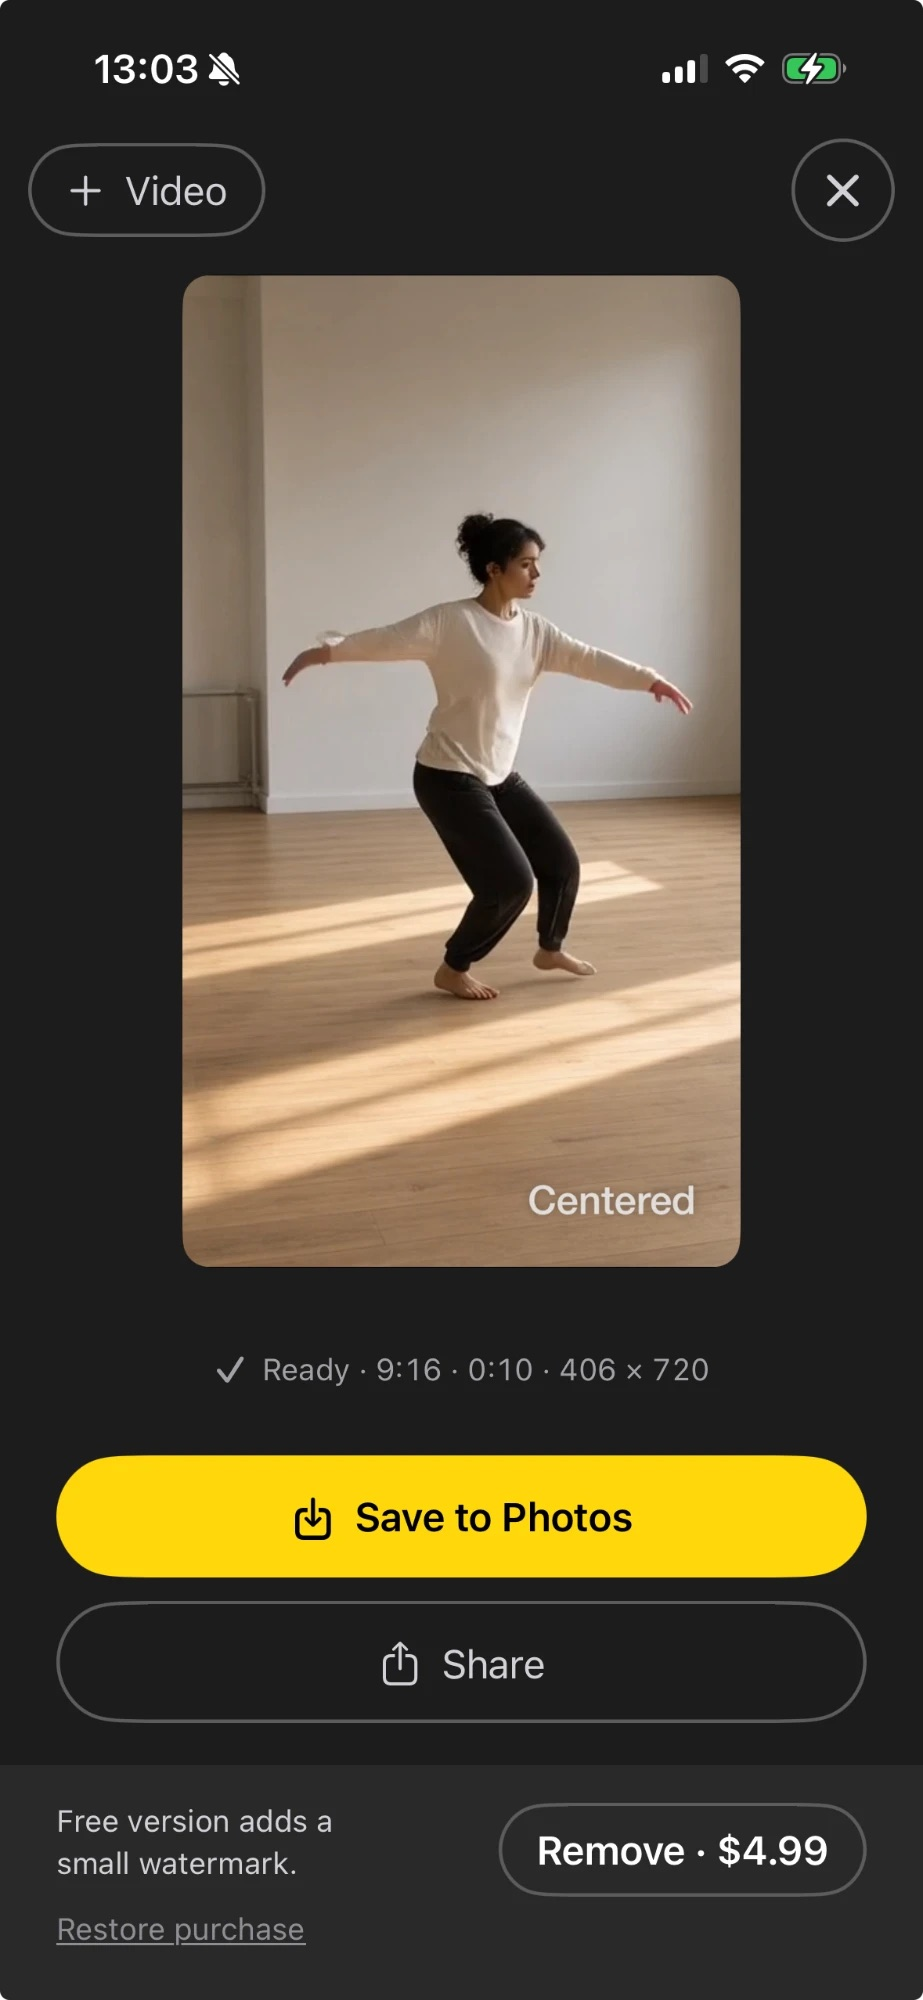
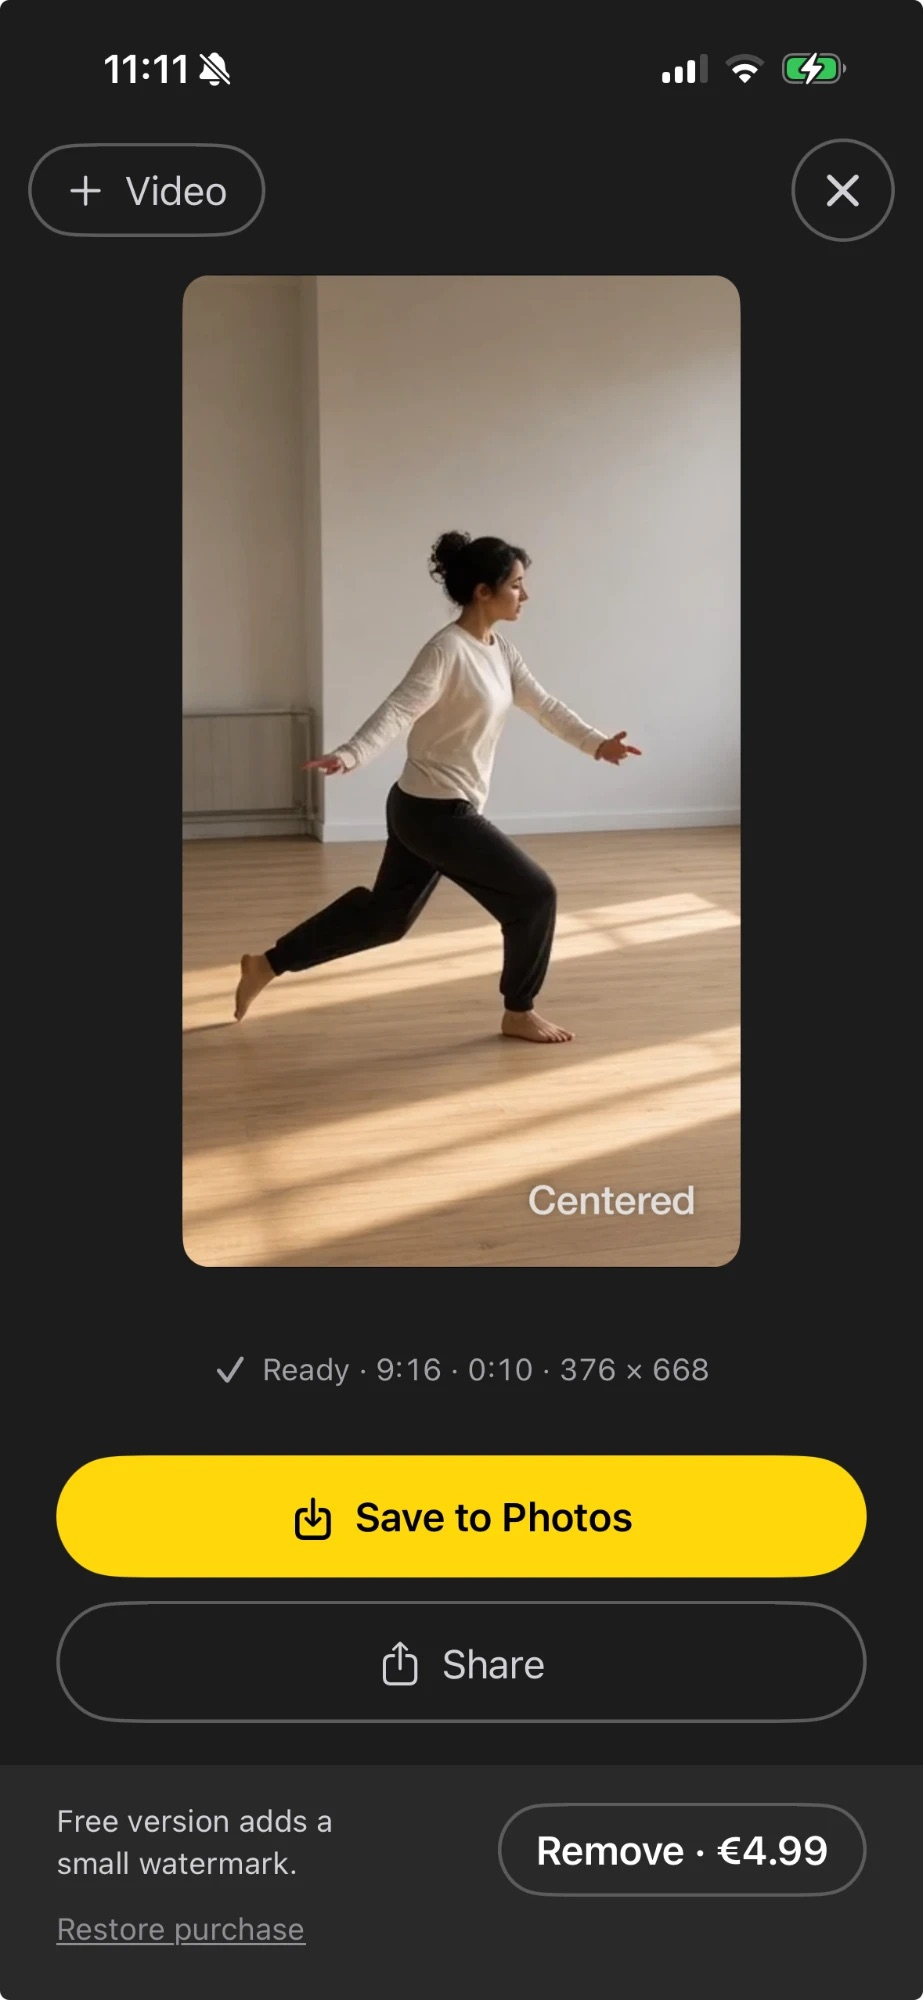
Updates aktivation of tracked persons, website screenshots

diff --git a/styles.css b/styles.css
@@ -100,6 +100,9 @@ html{scroll-behavior:smooth}
 .step{background:var(--surface); border:1px solid var(--line); border-radius:24px; padding:32px 28px; display:flex; flex-direction:column; gap:20px}
 .step .num{width:32px; height:32px; border-radius:16px; background:var(--card-2); display:flex; align-items:center; justify-content:center; font-size:15px; font-weight:600; color:var(--text)}
 .step p{margin:0; color:var(--text-3); font-size:16px}
+/* Die Telefone stehen unten bündig: Die Karten sind gleich hoch (Grid), die Texte darüber
+   unterschiedlich lang – der freie Platz gehört über das Telefon, nicht darunter. */
+.step .phone{margin:auto auto 0}
 
 /* features */
 .feats{display:grid; grid-template-columns:repeat(3,minmax(0,1fr)); gap:1px; background:var(--line); border:1px solid var(--line); border-radius:20px; overflow:hidden}
